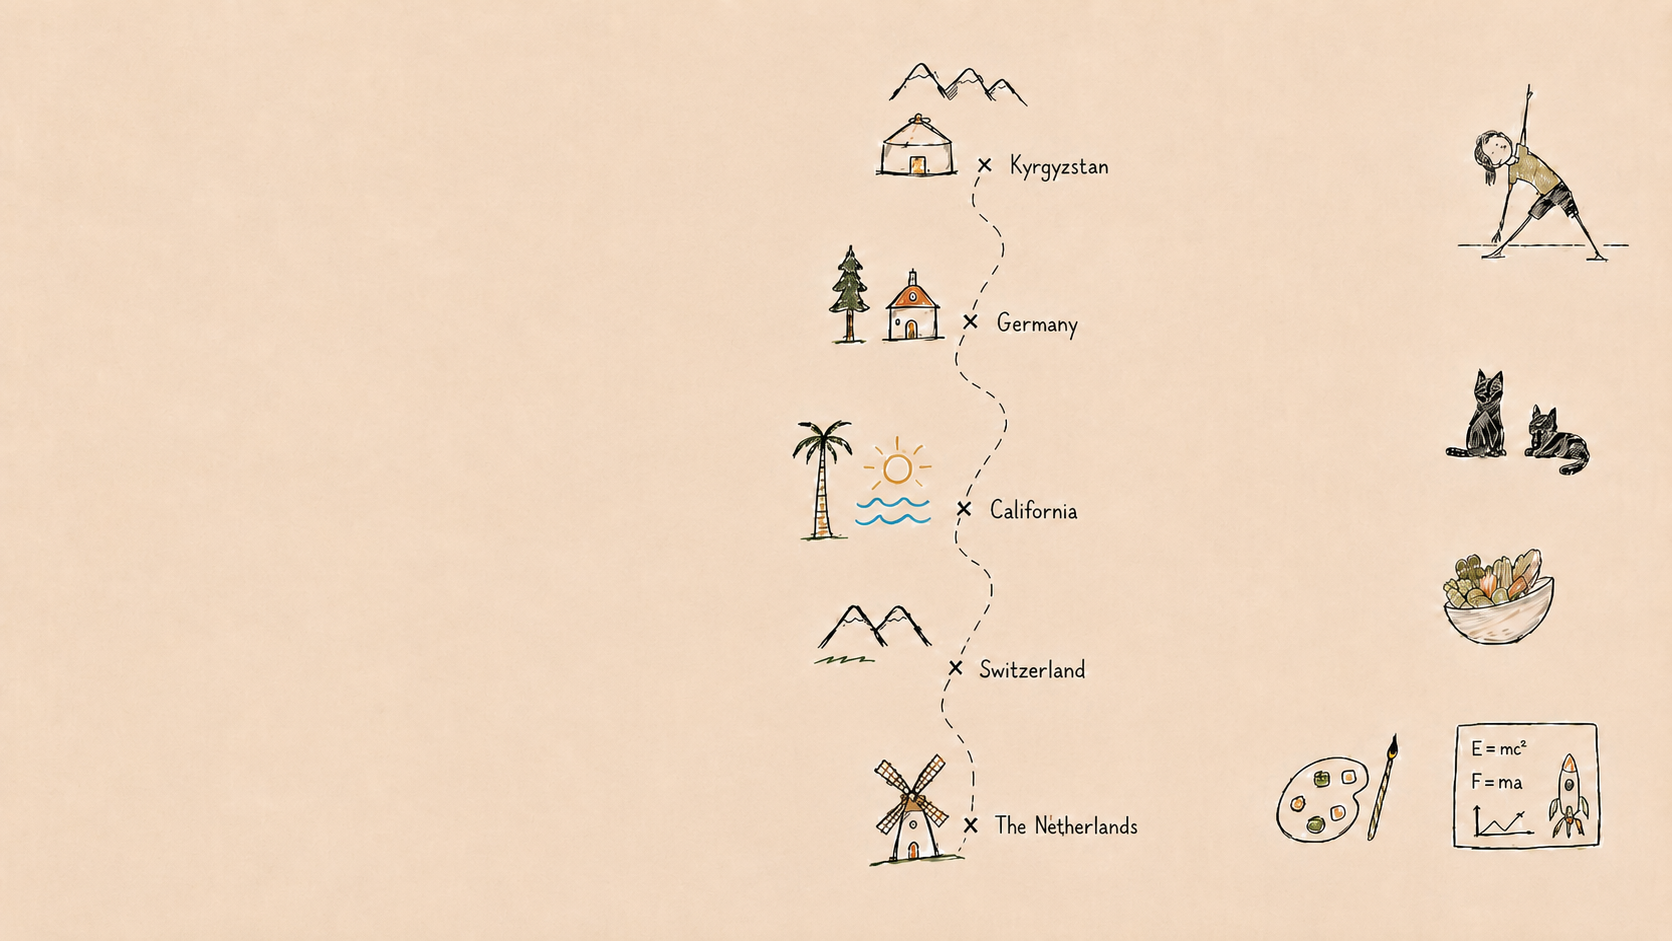
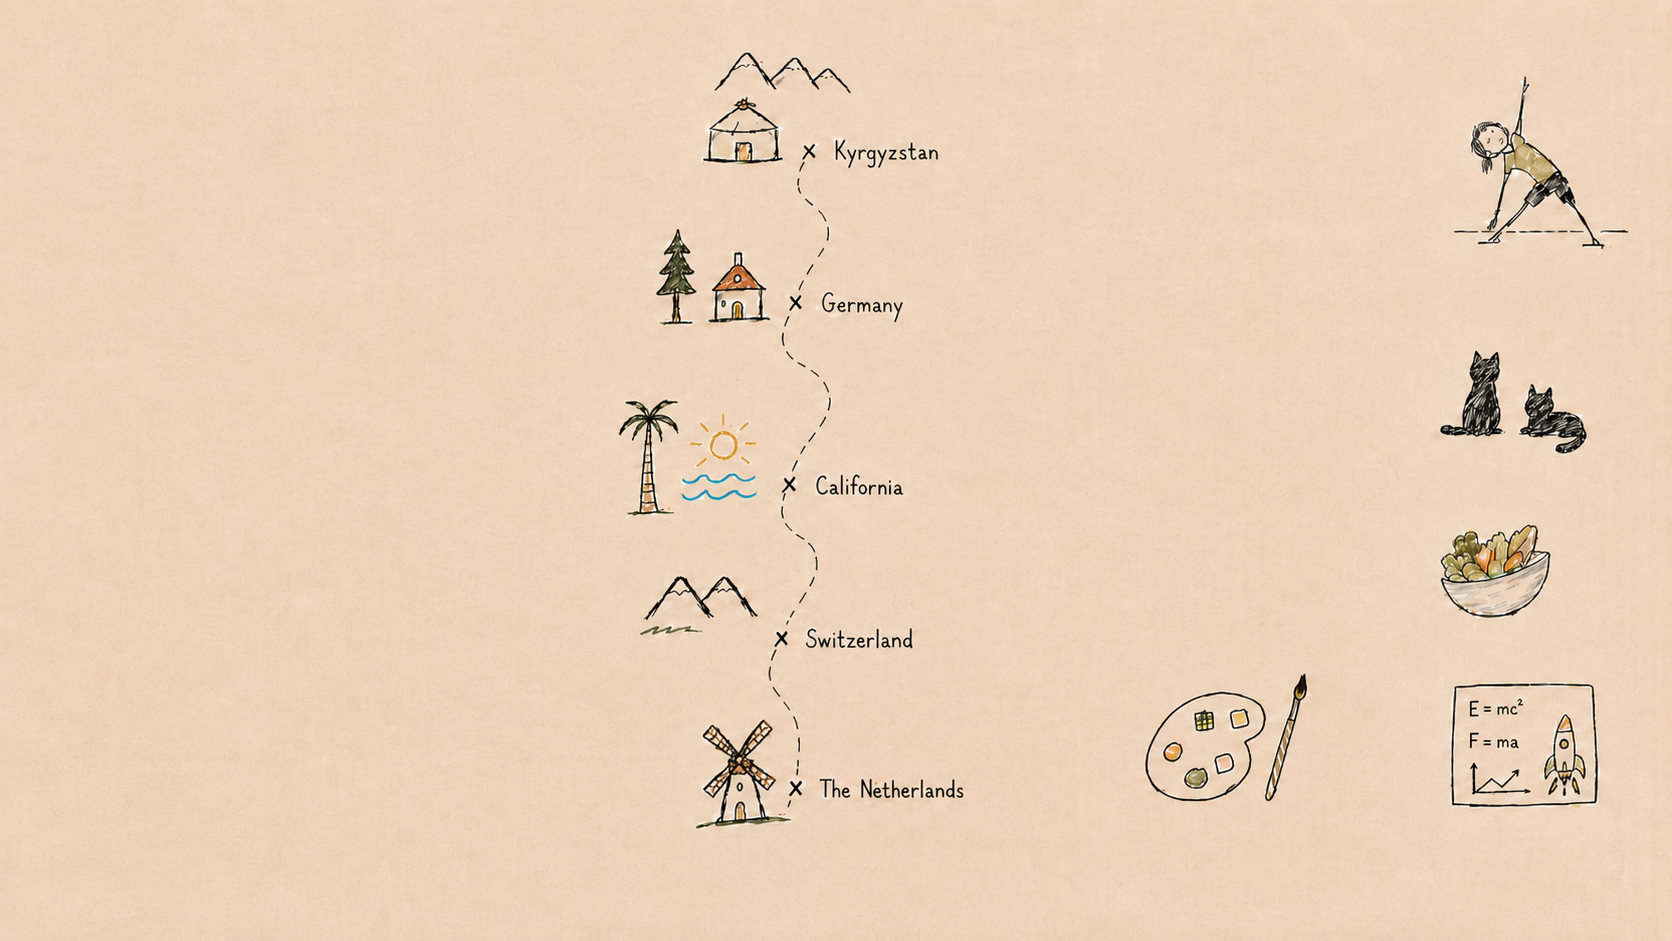
dodoles resized

diff --git a/index.html b/index.html
@@ -732,9 +732,13 @@
       max-width: 30em;
     }
 
+    section.block.topics {
+      padding-bottom: 12px;
+    }
+
     .things {
       display: grid;
-      grid-template-columns: repeat(3, 1fr);
+      grid-template-columns: repeat(3, minmax(0, 1fr));
       grid-auto-rows: 1fr;
       align-items: stretch;
       gap: 22px;
@@ -745,6 +749,7 @@
       --explore-color: #D9C2D3;
       display: flex;
       flex-direction: column;
+      min-width: 0;
       height: 100%;
       background: var(--card-tone);
       border: 1px solid color-mix(in srgb, var(--card-tone) 58%, rgba(58, 54, 64, 0.16));
@@ -1097,8 +1102,8 @@
         padding: 0;
         background-color: #F1E9DE;
         background-image: url("art/desktopaboutme-matched.png");
-        background-position: center top;
-        background-size: 100% 100%;
+        background-position: center calc(50% + 16px);
+        background-size: 85% auto;
         background-repeat: no-repeat;
       }
 
@@ -1115,23 +1120,23 @@
 
       .about-copy {
         position: relative;
-        padding-top: clamp(68px, 7.4vw, 124px);
+        padding-top: clamp(10px, 1.4vw, 24px);
       }
 
       .about-copy .eyebrow,
       .about-copy .title,
       .about p {
-        width: 41%;
-        max-width: 610px;
+        width: 32%;
+        max-width: 500px;
       }
 
       .about .photo {
         position: absolute;
         z-index: 1;
-        top: 22%;
-        right: 8.5%;
+        top: 23%;
+        right: 19%;
         float: none;
-        width: clamp(205px, 17vw, 310px);
+        width: clamp(215px, 18vw, 330px);
         margin: 0;
         border: 0;
         border-radius: 17px;
@@ -1146,6 +1151,35 @@
       .about p {
         font-size: clamp(15px, 1.18vw, 18px);
         line-height: 1.58;
+      }
+    }
+
+    @media (min-width: 881px) and (max-width: 1199px) {
+      .about {
+        background-position: 72% calc(50% + 12px);
+        background-size: 72% auto;
+      }
+
+      .about-grid {
+        padding-right: 6%;
+        padding-left: 6%;
+      }
+
+      .about-copy .eyebrow,
+      .about-copy .title,
+      .about p {
+        width: 43%;
+        max-width: 430px;
+      }
+
+      .about .photo {
+        right: 18%;
+        width: clamp(138px, 15vw, 178px);
+      }
+
+      .about p {
+        font-size: clamp(14px, 1.4vw, 16px);
+        line-height: 1.52;
       }
     }
 
@@ -1348,7 +1382,7 @@
 
     @media (max-width: 880px) {
       .things {
-        grid-template-columns: 1fr 1fr;
+        grid-template-columns: repeat(2, minmax(0, 1fr));
       }
 
       .about .photo {
@@ -1724,100 +1758,6 @@
       .things {
         grid-template-columns: 1fr;
       }
-
-      .about {
-        height: max(700px, 196vw);
-        min-height: 0;
-        padding: 0;
-        background-color: #F1E9DE;
-        background-image: url("art/mobile_aboutme-matched.png");
-        background-position: center top;
-        background-size: 100% 100%;
-        background-repeat: no-repeat;
-      }
-
-      .about-grid,
-      .about-copy {
-        width: 100%;
-        max-width: none;
-        height: 100%;
-      }
-
-      .about-grid {
-        padding: 0;
-      }
-
-      .about-copy {
-        position: relative;
-        isolation: isolate;
-        padding: clamp(248px, 68vw, 326px) 6% 7% 28%;
-      }
-
-      .about-copy::before {
-        content: "";
-        position: absolute;
-        z-index: 0;
-        top: clamp(232px, 64vw, 307px);
-        right: 3.5%;
-        bottom: 5.5%;
-        left: 24.5%;
-        border: 1px solid rgba(184, 154, 94, 0.18);
-        border-radius: 18px;
-        background: rgba(249, 241, 229, 0.86);
-        box-shadow: 0 18px 40px -34px rgba(58, 54, 64, 0.45);
-        backdrop-filter: blur(1.5px);
-      }
-
-      .about-copy .eyebrow,
-      .about-copy .title,
-      .about .photo {
-        position: absolute;
-        z-index: 1;
-      }
-
-      .about-copy .eyebrow {
-        top: 6.5%;
-        left: 34%;
-        margin: 0;
-        font-size: 10px;
-      }
-
-      .about-copy .title {
-        top: 9%;
-        left: 34%;
-        font-size: clamp(25px, 7.4vw, 34px);
-        white-space: nowrap;
-      }
-
-      .about .photo {
-        top: 15%;
-        right: 5.5%;
-        width: clamp(100px, 27vw, 130px);
-        margin: 0;
-        float: none;
-        border: 0;
-        border-radius: 13px;
-        box-shadow: 0 18px 38px -24px rgba(39, 36, 32, 0.72);
-        shape-outside: none;
-      }
-
-      .about .photo img {
-        aspect-ratio: 4 / 5;
-      }
-
-      .about p,
-      .about p:first-of-type {
-        position: relative;
-        z-index: 1;
-        margin: 0 0 10px;
-        color: #49433F;
-        font-size: clamp(12.25px, 3.35vw, 15px);
-        line-height: 1.46;
-      }
-
-      .about p:last-child {
-        margin-bottom: 0;
-      }
     }
 
     @media (max-width: 480px) {
@@ -1843,8 +1783,8 @@
       }
 
       .about .photo {
-        width: clamp(98px, 28vw, 118px);
-        margin-left: 0;
+        width: clamp(106px, 34vw, 132px);
+        margin-left: 14px;
       }
     }
 
@@ -1942,7 +1882,7 @@
         </div>
       </section>
 
-      <section class="block">
+      <section class="block topics">
         <div class="wrap">
           <div class="things-head">
             <h2 class="title">What we can <em>work on</em> together.</h2>
